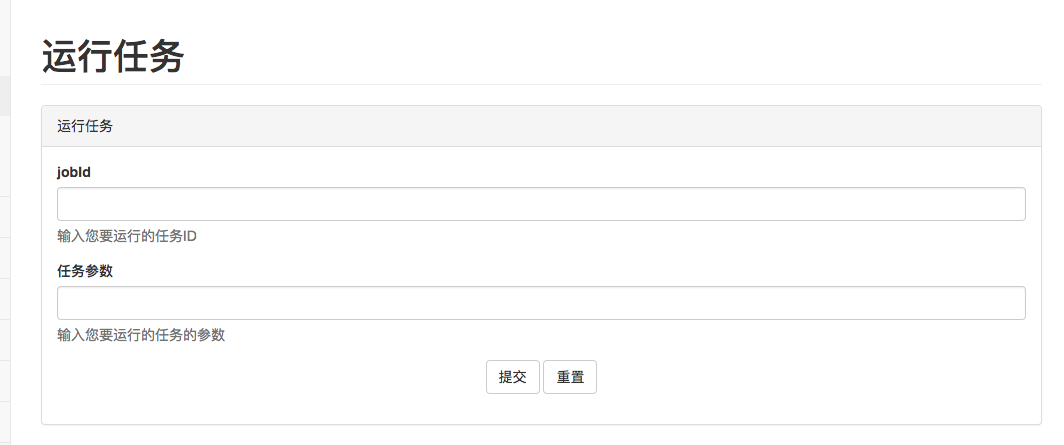
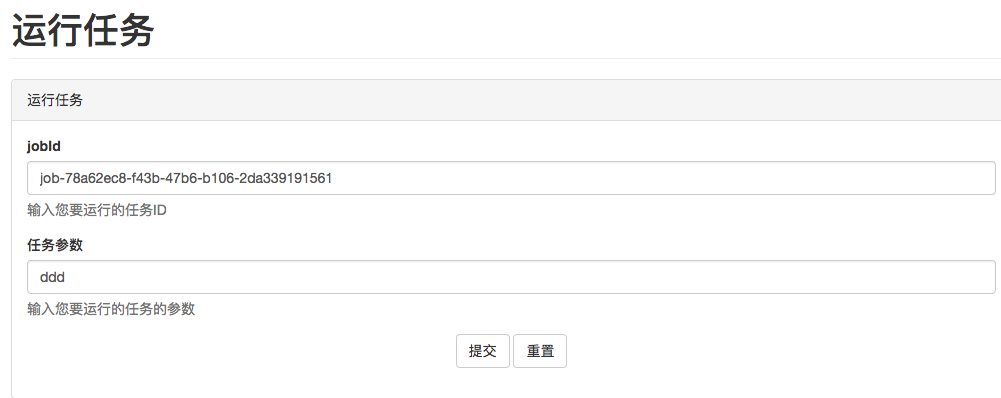
update img

diff --git a/README.md b/README.md
@@ -111,7 +111,29 @@ adminPwd=123456
    
  
 ##WEB端添加队列服务器
-登录系统**http://127.0.0.1:2048/**,进入**队列服务器管理>队列服务器（集群）管理，点击添加队列服务器，如下图
+###添加队列服务器
+登录系统**http://127.0.0.1:2048/**,进入**队列服务器管理>队列服务器（集群）管理，点击添加队列服务器**，如下图:
+![添加队列服务器](https://raw.githubusercontent.com/alonelaval/cabbage/master/img/addQueueServer.png)
+点击提交后：
+![添加队列服务器成功](https://raw.githubusercontent.com/alonelaval/cabbage/master/img/addQueueServerSuccess.png)
+###添加队列
+进入**队列服务器管理>队列管理，点击添加队列**，如下图:   
+![添加队列](https://raw.githubusercontent.com/alonelaval/cabbage/master/img/addQueue.png)
+点击提交后：
+![添加队列成功](https://raw.githubusercontent.com/alonelaval/cabbage/master/img/addQueueSuccess.png)
+客户端控制台输出添加队列后的记录：
+![添加队列成功](https://raw.githubusercontent.com/alonelaval/cabbage/master/img/console_queue.png)
+即可看到新添加的队列已经成功，但是还没有任务提交在系统中，下面我们将添加我们的第一个任务，并执行该任务。
+##执行任务
+###提交任务
+登录系统**http://127.0.0.1:2048/**,进入**任务管理>新建任务，输入参数，提交任务，如下图:
+![添加任务](https://raw.githubusercontent.com/alonelaval/cabbage/master/img/addJob.png)
+客户端控制台输出添加任务后的记录：
+![添加任务成功](https://github.com/alonelaval/cabbage/blob/master/img/console_job.png?raw=true)
+即可看到新添加的任务已经成功的提交到系统中，添加任务成功后，界面将输出该任务的JOBID。
+###执行任务
+登录系统**http://127.0.0.1:2048/**,进入**任务管理>运行指定任务，输入JOBID和参数，如下图:
+![添加任务](https://raw.githubusercontent.com/alonelaval/cabbage/master/img/addJob.png)
 
 
 
